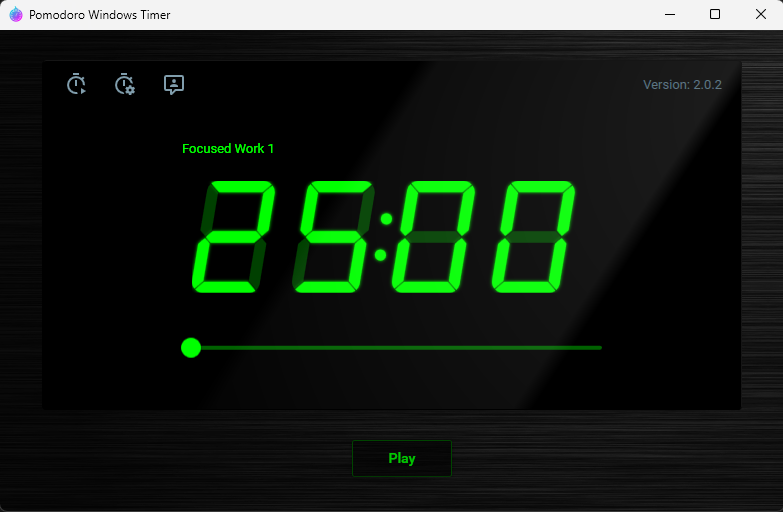
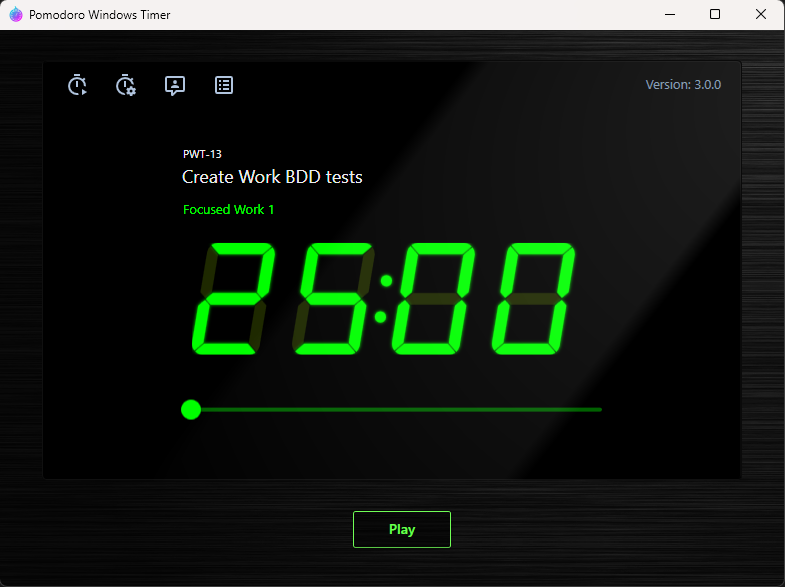
[ doc ] - update readme

diff --git a/README.md b/README.md
@@ -1,42 +1,96 @@
 PomodoroWindowsTimer
 ====================
 
-<br/>
-
-![main window](./images/main-window.png)
-
-![main window](./images/main-window-open-time-points.png)
+*Version: 3.0.0*
 
 <br/>
 
-Yet another Pomodoro timer for Windows, but!
+Yet another Pomodoro timer for Windows with the following features:
 
-It uses minimizing windows functionality and Telegram Chat Bor for notifications:
+- Minimizes all windows when wokt time is gone. It really makes you distracted to make a decision to work further, getting covered in a ruddy crust or give your eyes a rest.
 
-- When `Focused Work` time is count down all window are minimized, timer window is stay on
-- When `Break` time is count down all minimized windows are restored and you'll receive a message in telegram bot
+- Telegram notifications. More often than not, rest is not at the computer and you need a bell for class.
 
 <br/>
 
 ## Installation
 
 1. Create a Telegram bot
-2. Run PomodoroWindowsTimer.ChatIdGrabber to determine chat ID
-3. Add appsettings.json with next keys
+2. Run PomodoroWindowsTimer.ChatIdGrabber to determine chat ID or use your own solution.
+3. Use appsettings.json keys:
 
 ```json
 {
   "BotConfiguration": {
     "BotToken": "<your_token>",
     "MyChatId": "<your_chat_id>"
-  }
+  },
+  "WorkDb": { 
+    "ConnectionString": "Data Source=<path-to-sqlite-db-file>;"
+  },
 }
 ```
 
-4. Or run PomodoroWindowsTimer.WpfClient and input credentials in it (side menu (drawer) -> `"BOT SETTINGS"` button)
+<br/>
+
+## Interface
 
 <br/>
 
-![main window](./images/dialog.png)
+### Main Window
+
+<br/>
+
+![main window](./images/main-window.png)
+
+<br/>
+
+### Time Point List left drawer
+
+<br/>
+
+![main window](./images/main-window-open-time-points.png)
+
+<br/>
+
+### Work List right drawer
+
+<br/>
+
+![main window](./images/main-window-open-work-list.png)
+
+<br/>
+
+### Telegram Bot settings dialog
+
+<br/>
+
+![main window](./images/bot-settings-dialog.png)
+
+<br/>
+
+### Work Statistic window
+
+At par values are calcilated according pomodoro sequence.
+
+<br/>
+
+![main window](./images/work-statistic.png)
+
+<br/>
+
+#### Work Statistic window Add Work Time dialog
+
+<br/>
+
+![main window](./images/work-statistic-log-times-dialog.png)
+
+<br/>
+
+#### Work Statistic window Work Events dialog
+
+<br/>
+
+![main window](./images/work-statistic-log-events-dialog.png)
 
 <br/>
